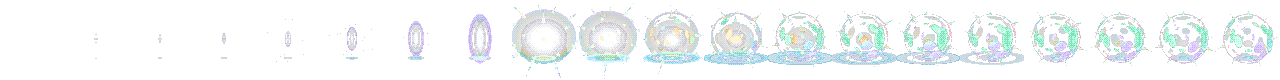
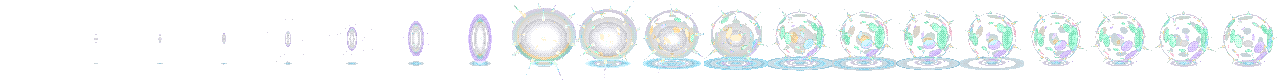
feat: update rift visuals and mechanics by enhancing manifest.json settings, refining rift rendering logic, and updating asset images for improved visual fidelity and gameplay immersion

Changed region(s): [[0.3125, 0.1, 1.0, 0.9], [0.25, 0.7, 0.2812, 0.75], [0.2188, 0.775, 0.2812, 0.8]]

diff --git a/client/src/render/layers/rift.ts b/client/src/render/layers/rift.ts
@@ -91,16 +91,26 @@ export interface RiftPhase {
   open: boolean;
 }
 
-const DORMANT_PHASE: RiftPhase = {
-  pillarCharge: [NOT_STARTED, NOT_STARTED, NOT_STARTED, NOT_STARTED],
-  pillarAwake: [false, false, false, false],
-  pillarCrowned: [false, false, false, false],
-  crownTime: [0, 0, 0, 0],
-  consoleArmed: false,
-  emerging: NOT_STARTED,
-  anomalyTime: 0,
-  open: false,
-};
+/**
+ * Nothing has happened yet.
+ *
+ * Sized from the rift's OWN stone count rather than a fixed four. How many
+ * stones a structure has is data now (`server/app/rift.py` derives the whole
+ * ceremony's length from it), so a hardcoded four would hand back `undefined`
+ * for the fifth the day somebody places one.
+ */
+function dormantPhase(stones: number): RiftPhase {
+  return {
+    pillarCharge: new Array<number>(stones).fill(NOT_STARTED),
+    pillarAwake: new Array<boolean>(stones).fill(false),
+    pillarCrowned: new Array<boolean>(stones).fill(false),
+    crownTime: new Array<number>(stones).fill(0),
+    consoleArmed: false,
+    emerging: NOT_STARTED,
+    anomalyTime: 0,
+    open: false,
+  };
+}
 
 /**
  * What every piece is doing, from the one clock the server and client share.
@@ -116,7 +126,7 @@ export function riftPhase(
   timing: RiftTimingConfig,
   chargeHandoff: number,
 ): RiftPhase {
-  if (rift.state === 'dormant') return DORMANT_PHASE;
+  if (rift.state === 'dormant') return dormantPhase(rift.pillars.length);
 
   const elapsed = rift.elapsed;
   const pillarCharge: number[] = [];

diff --git a/server/tools/make_rift.py b/server/tools/make_rift.py
@@ -331,15 +331,16 @@ EMERGE_SETTLE = 0.82
 # `frames / fps` is ALSO the rotation period, because the lattice spins exactly
 # one turn per loop — that is the only spin that brings every cell back to
 # where it started, so the loop is the revolution and there is no separate
-# knob for it. Four seconds. At 16 frames and 12 fps this was 1.3 s and the
-# sphere read as a spinning top: menace comes from something big moving
-# slowly, and a fast rotation makes a 64px object look small and light.
+# knob for it. Four seconds: menace comes from something big moving slowly, and
+# a fast rotation makes a 64px object look small and light.
 #
-# The frame count went up with the period rather than the fps coming down, so
-# the step stays 11 degrees a frame and the spin stays smooth instead of
-# strobing round in visible jumps.
-RIFT_FRAMES = 32
-RIFT_FPS = 8
+# THE FRAME RATE MATCHES `emerge`, and the frame count carries the period. At 8
+# fps the idle was strobing round in visible steps while the burst that handed
+# over to it was smooth, so the effect got WORSE at the moment it settled. Both
+# sheets now run at 16 fps and the period is bought with frames instead — 5.6
+# degrees a step, and the whole sequence moves at one rate.
+RIFT_FRAMES = 64
+RIFT_FPS = 16
 
 #: Openings on the shell. Enough that the sphere reads as a lattice, few enough
 #: that at 64px each one is still a shape rather than a speck.
@@ -1094,18 +1095,17 @@ def _anomaly(
     ry = radius * stretch_y
 
     # IT FLOATS. Breathing alone made it a pulsing ball sitting in mid-air; a
-    # slow vertical drift is what says the thing is HANGING there, unsupported,
-    # and it is the cheapest possible term — one sine of the loop phase, so it
-    # wraps like everything else and is exactly 0 at phase 0 (which is what
-    # keeps the emerge handoff exact).
+    # vertical drift is what says the thing is HANGING there, unsupported.
     #
-    # The floor does NOT move with it. The pool stays where the ground is and
-    # only tightens and brightens as the sphere comes down, which is what a
-    # light source approaching a surface actually does — and that contrast is
-    # what makes the rise read as the RIFT moving rather than the camera.
-    bob = math.sin(phase) * radius * 0.10
+    # TWO harmonics, not one. A single sine is a metronome and reads as
+    # mechanical — something on a piston. Adding the second at twice the rate
+    # makes the rise and the fall different shapes, so it wanders instead of
+    # oscillating. Both are still whole harmonics of the loop phase, so it
+    # wraps, and both are exactly 0 at phase 0 — which is what keeps the
+    # handoff out of `emerge` exact.
+    bob = (math.sin(phase) * 0.72 + math.sin(phase * 2.0) * 0.28) * radius * 0.17
     cy += bob
-    near = 1.0 - bob / max(radius * 0.10, 1e-6) * 0.18
+    near = 1.0 - bob / max(radius * 0.17, 1e-6) * 0.18
 
     # The core, seen through the biggest opening. Sat low, like the reference:
     # the shell is thinner underneath and that is where the inside shows.
@@ -1125,7 +1125,7 @@ def _anomaly(
     # further down than the ball, landing on the far rim of the sigil instead
     # of inside it. Under the sphere's own lower edge is where light cast by a
     # hovering object actually falls.
-    floor_y = cy - bob + ry * 0.78
+    floor_y = cy - bob + ry
     bloom = (0.85 + 0.15 * math.sin(phase)) * near
     # The pool on the floor is COOL — cyan into violet at its rim, the same
     # gradient the pillars run and the coldest end of the prism. Mint made it
@@ -1213,7 +1213,7 @@ def make_emerge_frame(
     # no longer read here — the tail derives its own from `_rift_state(phase)`
     # so that it is already moving at loop rate before the handover.
     _, _, rest_y, _, _ = _rift_state(0.0)
-    floor_y = cy + radius * rest_y * 0.78
+    floor_y = cy + radius * rest_y
 
     # --- SEAM: a hairline splits, and the air starts falling into it ---------
     if t < EMERGE_BURST:
@@ -1326,25 +1326,24 @@ def _layout(plot: int) -> dict:
     structure rather than seven loose sheets — whoever wires it up should not
     have to re-derive where a corner is.
     """
-    # ONE TILE IN FROM THE CORNERS. At the corners the stones were three tiles
-    # from an anomaly a tile and a half wide, and the gap read as four lamp
-    # posts standing near a sphere rather than as one structure holding it. In
-    # here the ring closes to the point where the rift's own spines reach the
-    # stones, which is the picture: they are what is holding it open.
+    # ONE STONE, not four.
     #
-    # The PLOT does not shrink with them — it is the cleared ground and the
-    # isolation footprint, and the room to fight in around the structure is
-    # worth more than a tighter box.
-    far, near = 2.0, plot - 1.0           # contact rows: back row, front row
-    left, right = 1.5, plot - 1.5         # tile centres of the stone columns
+    # A ring of four framed the anomaly symmetrically and, being symmetrical,
+    # said nothing: it read as a fixture the rift had been installed into. A
+    # single stone off to one side reads as a thing somebody DROVE INTO THE
+    # GROUND next to a hole in the world, which is the story this structure is
+    # actually telling. It also stops the pad being a diagram — you approach
+    # from anywhere except the one corner that is already occupied.
+    #
+    # The sheet still carries four cuts. They are not dead: the shape is a field
+    # on the placed stone, so this can be rolled per map, and four maps' worth
+    # of extraction points do not all have the same rock in them.
+    near = plot - 1.0                     # contact row of the front pieces
+    left = 1.5                            # tile centre of the stone's column
     middle = plot / 2.0
     return {
-        # One shape per corner, no flips — see PILLAR_SHAPES.
         "pillars": [
-            {"dx": left, "dy": far, "shape": 0},
-            {"dx": right, "dy": far, "shape": 1},
             {"dx": left, "dy": near, "shape": 2},
-            {"dx": right, "dy": near, "shape": 3},
         ],
         # Flat, centred on the plot's middle.
         "scar": {"dx": middle, "dy": middle},
@@ -1410,15 +1409,19 @@ def build(args) -> Path:
     rift_w, rift_h = tile * 4, tile * 5
     rift_anchor = rift_h - round(tile * 0.75)
     radius = tile * 1.55
-    # THE ANOMALY IS ANCHORED ON ITS CORE, not on a ground contact, and it is
-    # the only sheet here that is. Everything else in this game registers where
-    # it touches the floor because everything else touches the floor; this one
-    # HOVERS, so the meaningful point is the centre of the sphere. Anchoring it
-    # on the row its ground bloom sits in would hang the ball a sphere-radius
-    # above the sigil it is supposed to be sitting in the middle of — which is
-    # exactly what it did. The bloom is still drawn, further down the frame,
-    # and lands on the near rim of the ring.
-    rift_core = round(_hover_y(rift_anchor, radius))
+    # THE ANOMALY IS ANCHORED ON ITS UNDERSIDE, not on a ground contact and not
+    # on its centre.
+    #
+    # Everything else in this game registers where it touches the floor, because
+    # everything else touches the floor. This one hovers over a ring cut into
+    # the ground, and the picture is that the ring is a MOUTH: the sphere's
+    # bottom sits in the middle of it and its top half stands clear above the
+    # sigil's far edge. Anchoring on the centre buried half the ball below the
+    # ring; anchoring on the bloom row hung it a whole radius too high.
+    #
+    # The pool is drawn on this same row, so the anchor, the underside and the
+    # light on the floor are all one point.
+    rift_core = round(_hover_y(rift_anchor, radius) + radius)
     emerge_frames = [
         make_emerge_frame(rift_w, rift_h, rift_anchor, radius, i, EMERGE_FRAMES)
         for i in range(EMERGE_FRAMES)
@@ -1543,7 +1546,7 @@ def build(args) -> Path:
         f"crown {CROWN_FRAMES}x{glow_w}x{glow_h} @{CROWN_FPS}fps loop, "
         f"emerge {EMERGE_FRAMES}x{rift_w}x{rift_h} @{EMERGE_FPS}fps, "
         f"rift {RIFT_FRAMES}x{rift_w}x{rift_h} @{RIFT_FPS}fps loop, "
-        f"anchors {glow_anchor}/{rift_core} (core, not contact), "
+        f"anchors {glow_anchor}/{rift_core} (underside, not contact), "
         f"seams charge->crown {charge_seam}, emerge->rift {emerge_seam}"
     )
     if charge_seam or emerge_seam:

diff --git a/server/app/rift.py b/server/app/rift.py
@@ -55,15 +55,14 @@ PLOT = 7
 #: `scenery.Piece`. There is no `flip`: the stones are shaded from the upper
 #: left and a mirrored one is lit from the wrong side, which is why the art
 #: ships four cuts instead of two.
-#: ONE TILE IN FROM THE CORNERS — see `_layout()` in make_rift.py. Close
-#: enough that the rift's spines reach the stones, which is the picture: they
-#: are what is holding it open. The plot stays 7x7 regardless; that is the
-#: cleared ground and the isolation footprint, not the structure's own size.
+#: ONE STONE — see `_layout()` in make_rift.py. Four of them framed the
+#: anomaly symmetrically and, being symmetrical, said nothing; one off to the
+#: side reads as something driven into the ground next to a hole in the world.
+#:
+#: The plot stays 7x7 regardless: that is the cleared ground and the isolation
+#: footprint, not the structure's own size.
 _PILLARS: tuple[tuple[float, float, int], ...] = (
-    (1.5, 2.0, 0),
-    (PLOT - 1.5, 2.0, 1),
     (1.5, PLOT - 1.0, 2),
-    (PLOT - 1.5, PLOT - 1.0, 3),
 )
 #: On the front stones' row, not the plot's south edge. Out there a tree
 #: growing just past the plot drew its canopy — painted several tiles above
@@ -100,7 +99,10 @@ PILLAR_STAGGER = 0.45
 #: charge and its strike.
 SETTLE = 0.30
 
-PILLARS = 4
+#: Derived, never typed. The ceremony's length is a consequence of how many
+#: stones there are, so adding or removing one re-times the sequence — and the
+#: client reads the result through `client_config`, so all three stay in step.
+PILLARS = len(_PILLARS)
 LAST_PILLAR_AT = CONSOLE_LAG + (PILLARS - 1) * PILLAR_STAGGER
 CROWNED_AT = LAST_PILLAR_AT + CHARGE_TIME
 EMERGE_AT = CROWNED_AT + SETTLE
